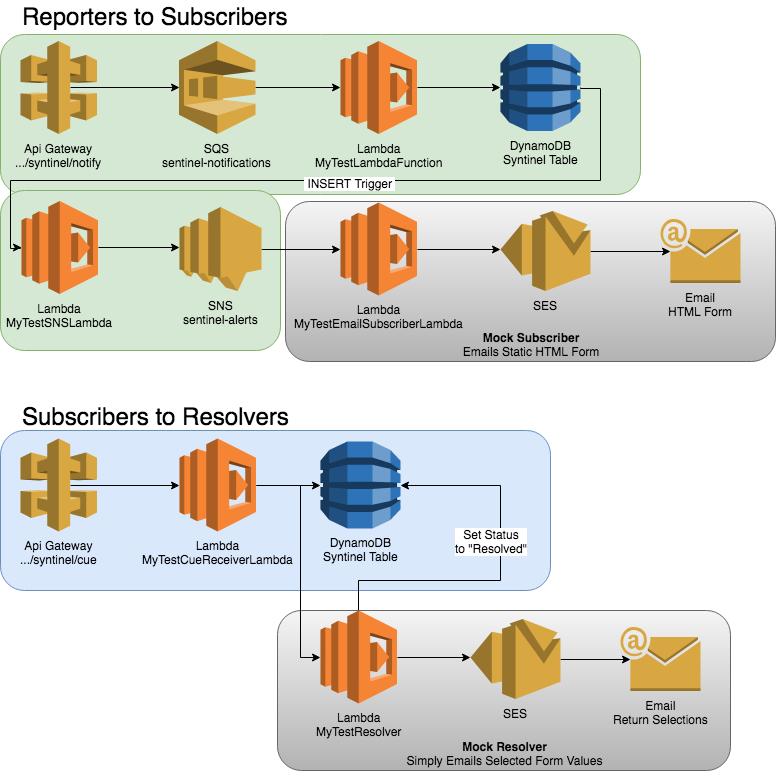
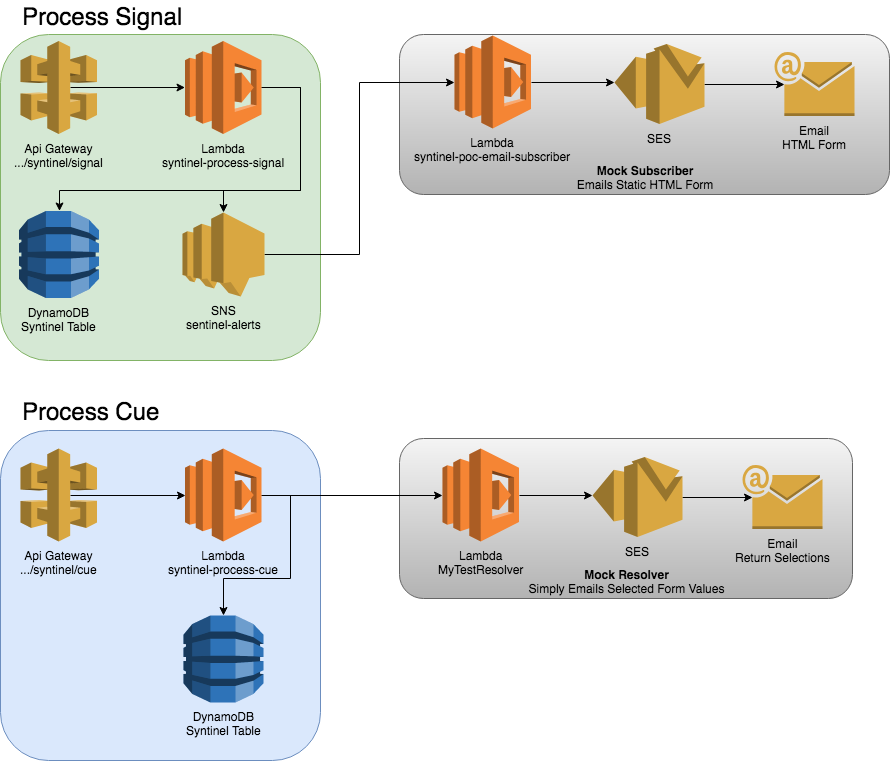
Updated Technical Design

diff --git a/scripts/03 - SNS to SES.py b/scripts/03 - SNS to SES.py
@@ -1,0 +1,25 @@
+from __future__ import print_function
+
+import json
+import boto3
+
+print('Loading function')
+
+
+def lambda_handler(event, context):
+    client = boto3.client('ses')
+
+    record = json.loads(event['Records'][0]['Sns']['Message'])
+    id = record['Keys']['_id']['S']
+    
+    body = '<!DOCTYPE html><html lang="en"><head><meta charset="utf-8"><title>Email Reply</title></head><body><h1>CPU Montior</h1><p>Your EC2 Instance is Running Hot (CPU > 80% over an hour)<hr><h2>Resize</h2><p>Resize your EC2 instance to a bigger size in the same class.<form id="form1" action="https://iveplpzxtk.execute-api.us-east-1.amazonaws.com/syntinel-poc/cue" method="POST"><div style="margin-bottom:10px"><label for="size">Size</label><br><select id="size" name="size"><option value="t2.nano" selected>t2.nano</option><option value="t2.micro">t2.micro</option><option value="t2.small">t2.small</option></select></div><div style="margin-bottom:10px"><input type="checkbox" id="restart" name="restart" value="checkbox value" checked><label for="restart">Restart</label></div><div style="margin-bottom:10px"><label for="textarea">Comment</label><br><textarea cols="60" rows="5" name="comment" id="textarea">When they go low, we go lower.</textarea></div><input type="hidden" id="instanceid" name="instanceid" value="i-06a81abcd8caa4843"><input type="hidden" id="_id" name="_id" value="' + id + '"><input type="hidden" id="_cue" name="_cue" value="1"><div><button type="submit" name="Submit">Submit</button></div></form><hr><h2>Ignore</h2><p>Ignore the alert.<form id="form1" action="https://iveplpzxtk.execute-api.us-east-1.amazonaws.com/syntinel-poc/cue" method="POST"><div style="margin-bottom:10px"><label for="duration">Duration</label><br><input required type="text" id="duration" name="duration" value="7"></div><input type="hidden" id="instanceid" name="instanceid" value="i-06a81abcd8caa4843"><input type="hidden" id="_id" name="_id" value="' + id + '"><input type="hidden" id="_cue" name="_cue" value="2"><div><button type="submit" name="Submit">Submit</button></div></form><hr><h2>Disable</h2><p>Disable CPU Monitoring For This Instance.<form id="form1" action="https://iveplpzxtk.execute-api.us-east-1.amazonaws.com/syntinel-poc/cue" method="POST"><input type="hidden" id="instanceid" name="instanceid" value="i-06a81abcd8caa4843"><input type="hidden" id="duration" name="duration" value="-1"><input type="hidden" id="_id" name="_id" value="' + id + '"><input type="hidden" id="_cue" name="_cue" value="3"><div><button type="submit" name="Submit">Submit</button></div></form></body></html>'
+    print(body)
+    
+    source = 'test@craigandguy.com'
+    destination = { 'ToAddresses' : ['guy.waguespack@gmail.com'],
+                    'CcAddresses' : [],
+                    'BccAddresses' : []}
+    message = {'Subject': {'Data': 'Signal [' + id + '] Received.'}, 'Body': {'Html': {'Data': body}}}
+    client.send_email(Source = source, Destination = destination, Message = message)
+    
+    return message

diff --git a/scripts/05 - Dynamo to SES.py b/scripts/05 - Dynamo to SES.py
@@ -1,0 +1,51 @@
+from __future__ import print_function # Python 2/3 compatibility
+import json
+import boto3
+
+def lambda_handler(event, context):
+    
+    print(event)
+    
+    id = event['_id'][0]
+    
+    # Pretend to do something here
+    
+
+    # Update Signal Record in DynamoDB
+    db = boto3.resource('dynamodb', region_name='us-east-1')
+    table = db.Table('Syntinel')
+    record = table.get_item(Key={'_id': id})
+    item = record['Item']
+    
+
+    # "Resolve" Issue By Sending Email (Mockup)    
+    client = boto3.client('ses')
+
+    body = '<!DOCTYPE html><html lang="en"><head><meta charset="utf-8"><title>Email Reply</title></head><body><table>'
+
+    for key in event :
+        body = body + '<tr><td>' + key + '</td><td>' + json.dumps(event[key]) + '</tr>'
+        print('>> Key : ' + key + ' : ' + json.dumps(event[key]))
+
+    body = body + '</table></body></html>'
+    print(body)
+    
+    source = 'test@craigandguy.com'
+    destination = { 'ToAddresses' : ['guy.waguespack@gmail.com'],
+                    'CcAddresses' : [],
+                    'BccAddresses' : []}
+    subject = 'Signal [' + id + "] Resolved."
+    message = {'Subject': {'Data': subject}, 'Body': {'Html': {'Data': body}}}
+    client.send_email(Source = source, Destination = destination, Message = message)
+
+    
+    
+    updateInfo = { '_status': 'Resolved' }
+    item.update(updateInfo)
+    table.put_item(Item=item)
+
+    
+    return {
+        'statusCode': 200,
+        'body': 'Signal ' + id + ' Resolved.'
+    }

diff --git a/scripts/04 - Update Dynamo.py b/scripts/04 - Update Dynamo.py
@@ -1,0 +1,33 @@
+from __future__ import print_function # Python 2/3 compatibility
+from urllib import parse
+import json
+import boto3
+
+def lambda_handler(event, context):
+    
+    queryString = event['body']
+    qs = parse.parse_qs(queryString)
+    
+    id = qs['_id'][0]
+    cue = qs['_cue'][0]
+    
+    # Update Signal Record in DynamoDB
+    db = boto3.resource('dynamodb', region_name='us-east-1')
+    table = db.Table('Syntinel')
+    record = table.get_item(Key={'_id': id})
+    item = record['Item']
+    
+    updateInfo = { '_status': 'Received', '_cue': cue }
+    item.update(updateInfo)
+    table.put_item(Item=item)
+    
+    # Mock Call To "Resolver Lambda"
+    lam = boto3.client('lambda')
+    lam.invoke(FunctionName='MyTestResolver', InvocationType='RequestResponse', Payload=json.dumps(qs))
+
+    # TODO implement
+    return {
+        'statusCode': 200,
+        'body': 'Resolved'
+    }
+

diff --git a/scripts/02 - Dynamo to SNS.py b/scripts/02 - Dynamo to SNS.py
@@ -1,0 +1,14 @@
+from __future__ import print_function
+import boto3
+import json
+
+client = boto3.client('sns')
+topic_arn = 'arn:aws:sns:us-east-1:121808128646:syntinel-alerts'
+
+def lambda_handler(event, context):
+    for record in event['Records']:
+        eventName = record['eventName']
+        if eventName == 'INSERT':
+            id = record['dynamodb']['Keys']['_id']['S']
+            record = json.dumps(record['dynamodb'])
+            client.publish(TopicArn=topic_arn, Message=record, Subject='Syntinel Signal Received')
